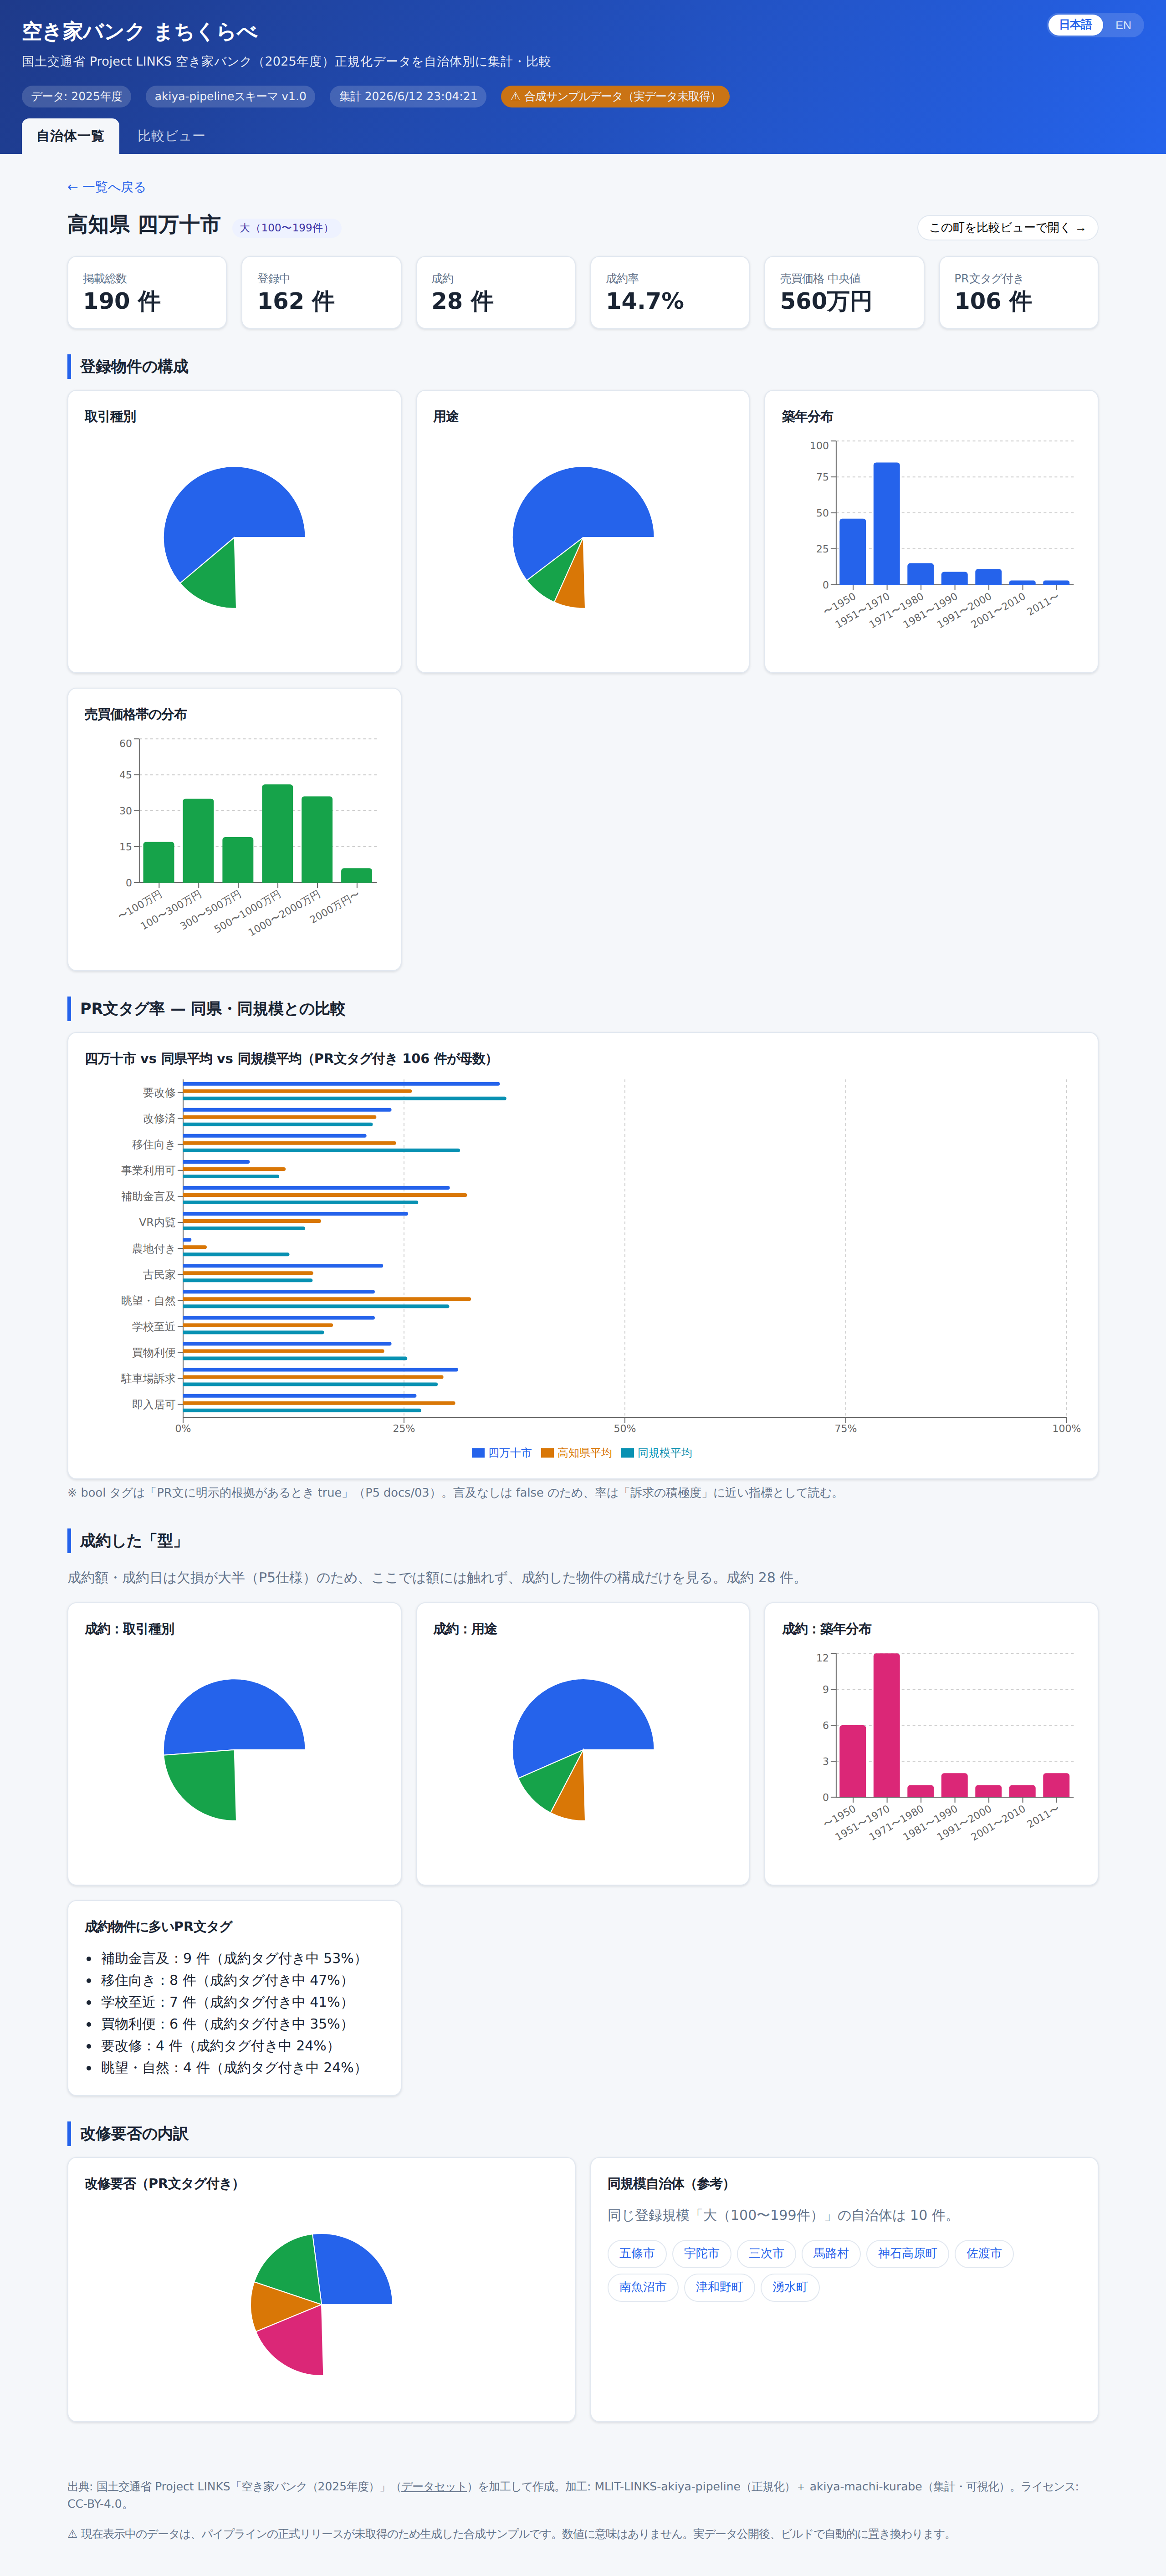
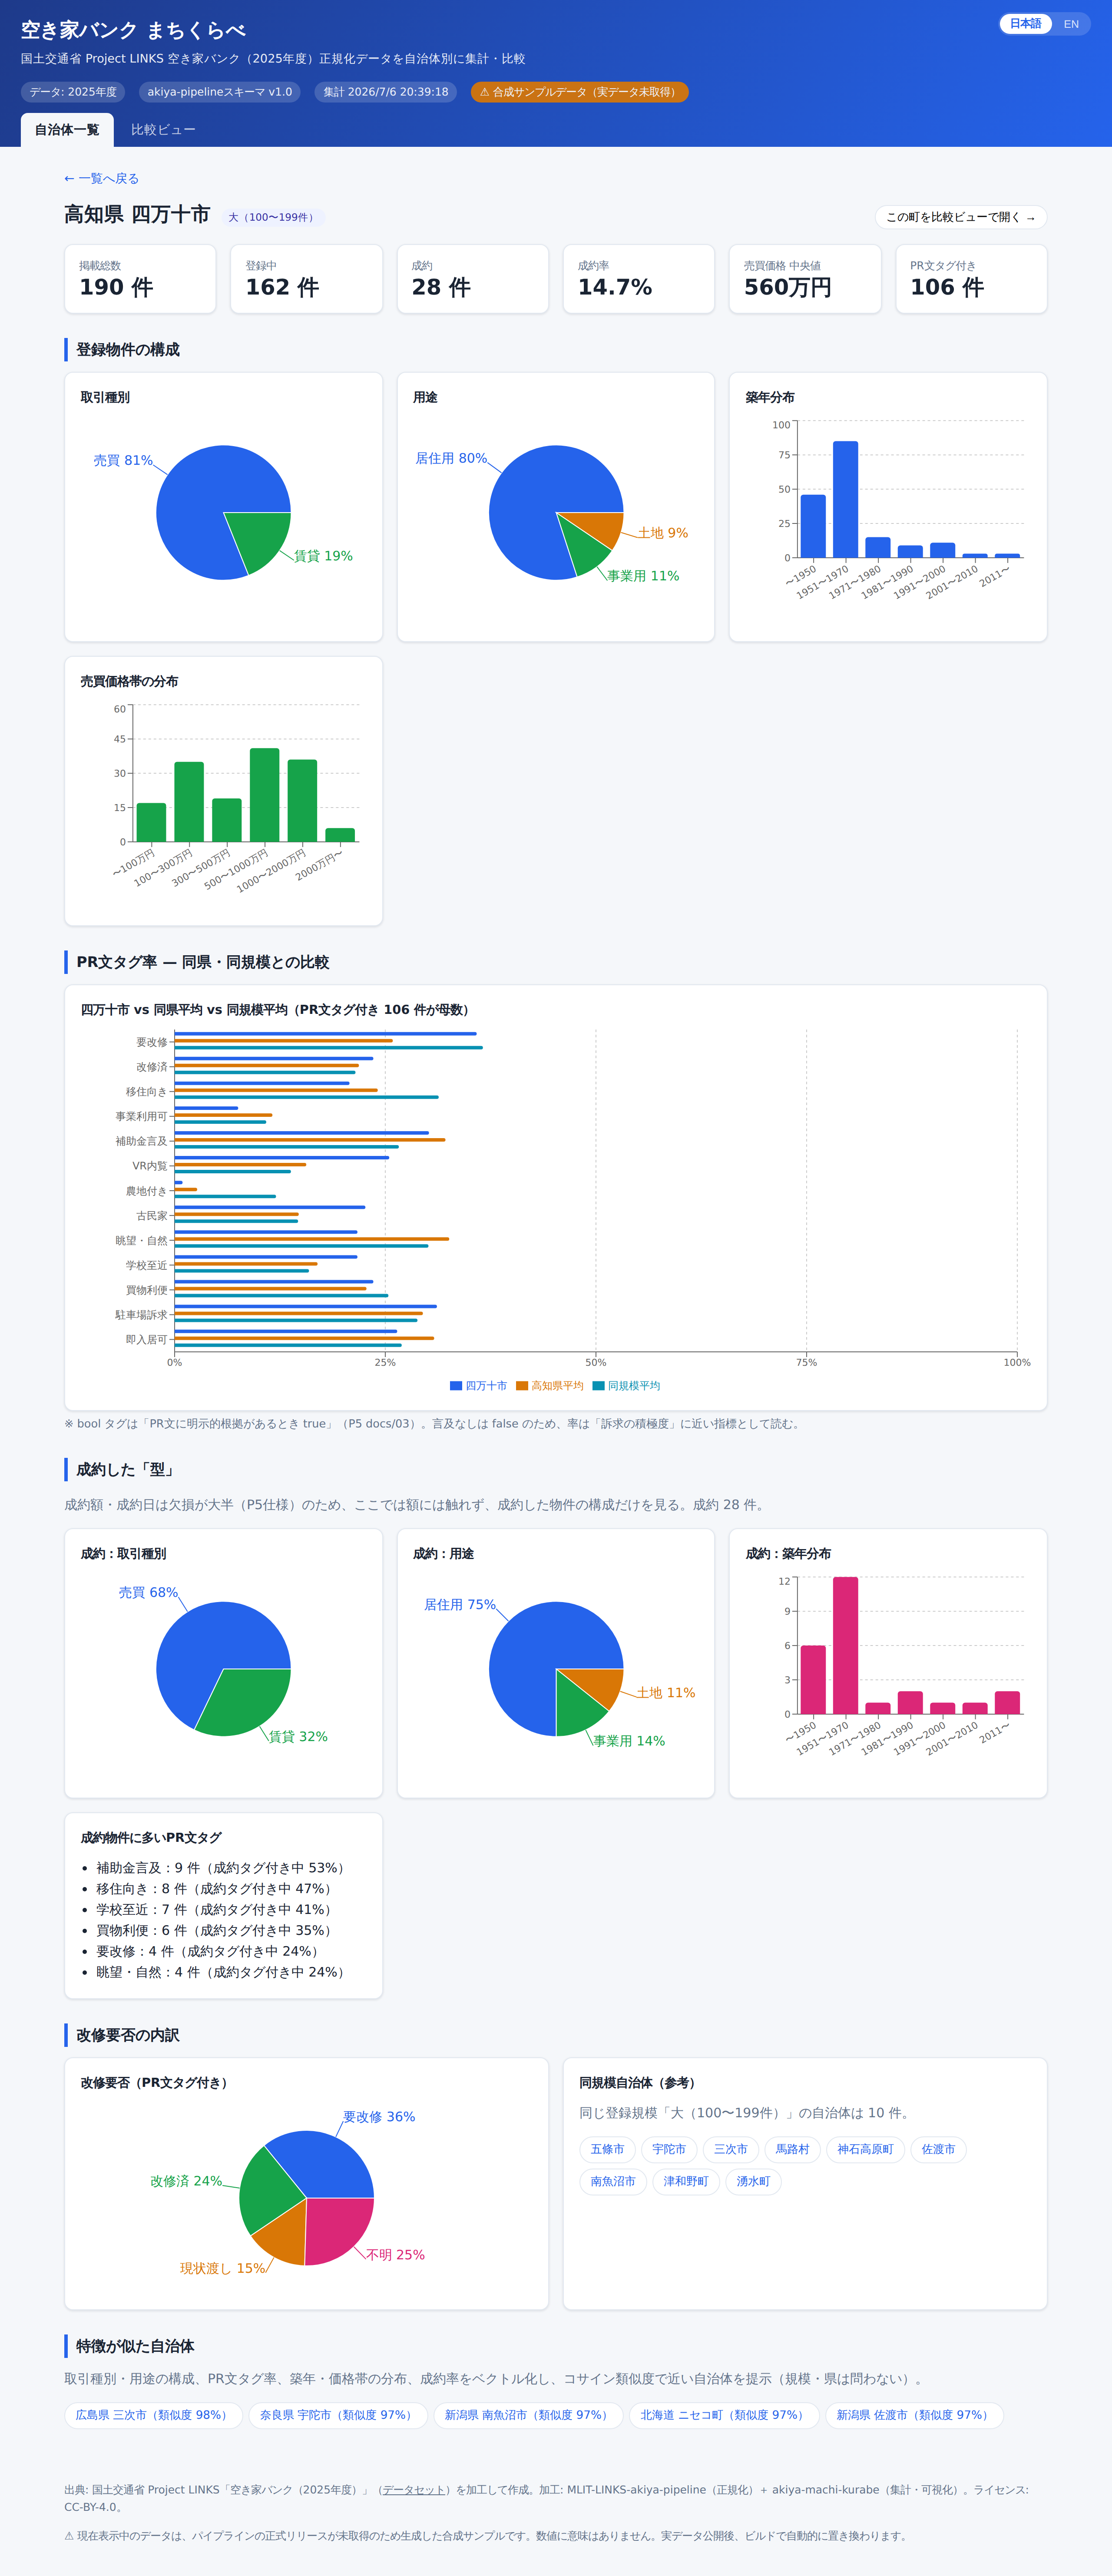
特徴が似た自治体の追加、チャートの遅延ロード、帯ラベル英訳の堅牢化
- 特徴ベクトル(取引種別/用途/タグ率/築年/価格/成約率)のコサイン類似度で
  「特徴が似た自治体」上位5件を集計時に算出し詳細に表示（AGGREGATE_VERSION 1.1）
- Recharts を遅延ロード化（PALETTE/Card を分離、charts.lazy + Suspense）。初期JSを約540kB→約29kBに
- 帯ラベルの英訳を buckets の定義から位置対応で導出し、数不一致を実行時検知
- docs/ALGORITHM.md 更新、集計テスト追加、詳細スクショ更新

diff --git a/src/i18n/i18n.tsx b/src/i18n/i18n.tsx
@@ -5,6 +5,7 @@
 import { createContext, useCallback, useContext, useEffect, useMemo, useState, type ReactNode } from "react";
 import type { ScaleBand, TagRates } from "../types/aggregates.ts";
 import type { DealType, RenovationNeeded, UseType } from "../types/p5.ts";
+import { CONSTRUCTION_BAND_LABELS, PRICE_BAND_LABELS } from "../lib/buckets.ts";
 
 export type Lang = "ja" | "en";
 
@@ -106,6 +107,12 @@ const STRINGS: Record<string, Entry> = {
   "mu.chart.reno": { ja: "改修要否（PR文タグ付き）", en: "Renovation need (PR-tagged)" },
   "mu.card.peers": { ja: "同規模自治体（参考）", en: "Same-scale municipalities (ref)" },
   "mu.peers.note": { ja: "同じ登録規模「{scale}」の自治体は {n} 件。", en: "{n} municipalities at the same listing scale “{scale}”." },
+  "mu.sec.similar": { ja: "特徴が似た自治体", en: "Municipalities with similar characteristics" },
+  "mu.similar.note": {
+    ja: "取引種別・用途の構成、PR文タグ率、築年・価格帯の分布、成約率をベクトル化し、コサイン類似度で近い自治体を提示（規模・県は問わない）。",
+    en: "Nearest municipalities by cosine similarity over deal/use mix, PR-tag rates, construction/price distributions, and closed rate (regardless of scale or prefecture).",
+  },
+  "mu.similar.item": { ja: "{name}（類似度 {score}）", en: "{name} (similarity {score})" },
   "error.detail": { ja: "詳細を読み込めません", en: "Failed to load detail" },
 
   "cmp.intro": {
@@ -182,21 +189,25 @@ const SCALE: Record<ScaleBand, Entry> = {
   xs: { ja: "極小（〜9件）", en: "XS (≤9)" },
 };
 
-// ヒストグラムの帯ラベル（集計成果物では日本語固定なので JA ラベル→EN で対応）
+// ヒストグラムの帯ラベル英訳。JA ラベルは buckets.ts が単一の定義元なので、
+// そこから取り込んだ配列と EN 配列を「定義順（位置）」で対応づける。
+// これにより buckets.ts 側の JA 文言を変えても英訳が静かにズレない。
+// バンド数が変わったら下の長さチェックが実行時に検知する。
+const CONSTRUCTION_BAND_EN = ["–1950", "1951–1970", "1971–1980", "1981–1990", "1991–2000", "2001–2010", "2011–"];
+const PRICE_BAND_EN = ["<¥1M", "¥1–3M", "¥3–5M", "¥5–10M", "¥10–20M", "¥20M+"];
+
+function zipBandLabels(jaLabels: readonly string[], enLabels: readonly string[], kind: string): Record<string, string> {
+  if (jaLabels.length !== enLabels.length) {
+    throw new Error(
+      `i18n: ${kind} バンドの日本語(${jaLabels.length})と英語(${enLabels.length})の数が一致しません。i18n.tsx の EN 配列を buckets.ts の定義に合わせてください。`,
+    );
+  }
+  return Object.fromEntries(jaLabels.map((ja, i) => [ja, enLabels[i]]));
+}
+
 const BAND_EN: Record<string, string> = {
-  "〜1950": "–1950",
-  "1951〜1970": "1951–1970",
-  "1971〜1980": "1971–1980",
-  "1981〜1990": "1981–1990",
-  "1991〜2000": "1991–2000",
-  "2001〜2010": "2001–2010",
-  "2011〜": "2011–",
-  "〜100万円": "<¥1M",
-  "100〜300万円": "¥1–3M",
-  "300〜500万円": "¥3–5M",
-  "500〜1000万円": "¥5–10M",
-  "1000〜2000万円": "¥10–20M",
-  "2000万円〜": "¥20M+",
+  ...zipBandLabels(CONSTRUCTION_BAND_LABELS, CONSTRUCTION_BAND_EN, "築年"),
+  ...zipBandLabels(PRICE_BAND_LABELS, PRICE_BAND_EN, "価格"),
 };
 
 function interpolate(s: string, vars?: Record<string, string | number>): string {

diff --git a/src/pages/MunicipalityPage.tsx b/src/pages/MunicipalityPage.tsx
@@ -1,11 +1,13 @@
-import { useEffect, useMemo, useState } from "react";
+import { Suspense, useEffect, useMemo, useState } from "react";
 import { useStore } from "../data/store.tsx";
 import { loadMunicipalityDetail } from "../data/load.ts";
 import type { MunicipalityDetail, TagRates } from "../types/aggregates.ts";
 import type { RenovationNeeded } from "../types/p5.ts";
 import { navigate } from "../lib/router.ts";
 import { num, pct, toPieData } from "../lib/format.ts";
-import { Card, CompositionPie, HistogramChart, PALETTE, TagRateBars } from "../components/charts.tsx";
+import { Card } from "../components/Card.tsx";
+import { PALETTE } from "../lib/palette.ts";
+import { CompositionPie, HistogramChart, TagRateBars } from "../components/charts.lazy.tsx";
 import { Kpi } from "../components/Kpi.tsx";
 import { useI18n } from "../i18n/i18n.tsx";
 
@@ -99,6 +101,7 @@ export function MunicipalityPage({ id }: { id: string }) {
         <Kpi label={t("mu.kpi.tagged")} value={i18n.count(detail.tagged)} />
       </div>
 
+      <Suspense fallback={<div className="center-msg">{t("common.loading")}</div>}>
       <h2 className="section">{t("mu.sec.composition")}</h2>
       <div className="grid grid-2">
         <CompositionPie title={t("mu.chart.deal")} data={toPieData(detail.deal_type, i18n.deal)} />
@@ -180,6 +183,23 @@ export function MunicipalityPage({ id }: { id: string }) {
           </div>
         </Card>
       </div>
+      </Suspense>
+
+      {detail.similar.length > 0 && (
+        <>
+          <h2 className="section">{t("mu.sec.similar")}</h2>
+          <p className="muted" style={{ marginTop: 0 }}>
+            {t("mu.similar.note")}
+          </p>
+          <div className="chip-row">
+            {detail.similar.map((s) => (
+              <a key={s.id} className="chip" href={`#/m/${s.id}`}>
+                {t("mu.similar.item", { name: `${s.prefecture} ${s.city}`, score: pct(s.score) })}
+              </a>
+            ))}
+          </div>
+        </>
+      )}
     </div>
   );
 }

diff --git a/scripts/__tests__/aggregate.test.ts b/scripts/__tests__/aggregate.test.ts
@@ -95,6 +95,27 @@ test("売買価格の中央値とヒストグラムを出す", () => {
   assert.equal(total, 3); // rent は価格ヒストに含めない
 });
 
+test("類似自治体：自分を除き降順、決定的、特徴が近い順", () => {
+  const records: AkiyaRecord[] = [
+    rec({ id: "a1", location: { prefecture: "P", city: "A", point: null }, deal_type: "sale", use_type: "residential" }),
+    rec({ id: "a2", location: { prefecture: "P", city: "A", point: null }, deal_type: "sale", use_type: "residential" }),
+    rec({ id: "b1", location: { prefecture: "P", city: "B", point: null }, deal_type: "sale", use_type: "residential" }),
+    rec({ id: "c1", location: { prefecture: "Q", city: "C", point: null }, deal_type: "rent", use_type: "commercial" }),
+  ];
+  const a = aggregate(records, META);
+  const A = a.details.find((d) => d.city === "A")!;
+  assert.ok(A.similar.length >= 1 && A.similar.length <= 5);
+  assert.ok(!A.similar.some((s) => s.id === A.id)); // 自分を含まない
+  for (let i = 1; i < A.similar.length; i++) {
+    assert.ok(A.similar[i - 1].score >= A.similar[i].score); // 降順
+  }
+  // 居住・売買の A は、同じ構成の B の方が 事業・賃貸の C より似る
+  assert.equal(A.similar[0].city, "B");
+  // 決定的（同じ入力なら同じ出力）
+  const B = aggregate(records, META).details.find((d) => d.city === "A")!;
+  assert.deepEqual(A.similar, B.similar);
+});
+
 test("詳細 ID は決定的で、summary と detail で一致する", () => {
   const records: AkiyaRecord[] = [rec({ id: "1" })];
   const a = aggregate(records, META);

diff --git a/src/components/charts.tsx b/src/components/charts.tsx
@@ -16,25 +16,8 @@ import {
 import type { HistogramBin } from "../types/aggregates.ts";
 import { pct } from "../lib/format.ts";
 import { useI18n } from "../i18n/i18n.tsx";
-
-export const PALETTE = [
-  "#2563eb",
-  "#16a34a",
-  "#d97706",
-  "#db2777",
-  "#0891b2",
-  "#7c3aed",
-  "#dc2626",
-];
-
-export function Card({ title, children }: { title?: string; children: React.ReactNode }) {
-  return (
-    <div className="card">
-      {title && <p className="chart-title">{title}</p>}
-      {children}
-    </div>
-  );
-}
+import { PALETTE } from "../lib/palette.ts";
+import { Card } from "./Card.tsx";
 
 /** 構成比の円グラフ。 */
 export function CompositionPie({

diff --git a/src/components/charts.lazy.tsx b/src/components/charts.lazy.tsx
@@ -1,0 +1,14 @@
+// Recharts を使うチャート群を遅延ロードするラッパ。
+// これらを import しても Recharts は初期バンドルに含まれず、
+// 実際に描画されるときに別チャンクとして読み込まれる（<Suspense> で囲んで使う）。
+import { lazy } from "react";
+
+export const CompositionPie = lazy(() =>
+  import("./charts.tsx").then((m) => ({ default: m.CompositionPie })),
+);
+export const HistogramChart = lazy(() =>
+  import("./charts.tsx").then((m) => ({ default: m.HistogramChart })),
+);
+export const TagRateBars = lazy(() =>
+  import("./charts.tsx").then((m) => ({ default: m.TagRateBars })),
+);

diff --git a/src/types/aggregates.ts b/src/types/aggregates.ts
@@ -4,7 +4,7 @@
 import type { RenovationNeeded } from "./p5.ts";
 
 /** 集計版（このアプリの集計ロジックの版）。出力構造を変えたら上げる。 */
-export const AGGREGATE_VERSION = "1.0";
+export const AGGREGATE_VERSION = "1.1";
 
 /** 登録規模バンド（人口データが無いため登録総数を規模の代理指標に使う）。 */
 export type ScaleBand = "xs" | "s" | "m" | "l" | "xl";
@@ -68,12 +68,23 @@ export interface MunicipalitySummary {
   scale_band: ScaleBand;
 }
 
+/** 特徴ベクトルのコサイン類似度で近い自治体（規模・県によらない）。 */
+export interface SimilarMunicipality {
+  id: string;
+  prefecture: string;
+  city: string;
+  /** 類似度 0〜1（1 に近いほど特徴が似る）。 */
+  score: number;
+}
+
 /** 詳細ビュー用。municipalities/<id>.json に1件ずつ入る。 */
 export interface MunicipalityDetail extends MunicipalitySummary {
   construction_year_hist: HistogramBin[];
   sale_price_hist: HistogramBin[];
   renovation_breakdown: Record<RenovationNeeded, number>;
   closed_profile: ClosedProfile;
+  /** 特徴が似た自治体（上位、降順）。 */
+  similar: SimilarMunicipality[];
 }
 
 /** 都道府県ロールアップ（比較の基準値・同県平均）。 */

diff --git a/src/components/Card.tsx b/src/components/Card.tsx
@@ -1,0 +1,11 @@
+import type { ReactNode } from "react";
+
+/** チャートや任意内容を囲む共通カード。Recharts に依存しない軽量コンポーネント。 */
+export function Card({ title, children }: { title?: string; children: ReactNode }) {
+  return (
+    <div className="card">
+      {title && <p className="chart-title">{title}</p>}
+      {children}
+    </div>
+  );
+}

diff --git a/src/lib/palette.ts b/src/lib/palette.ts
@@ -1,0 +1,11 @@
+// チャート系の配色。Recharts を読み込まずに参照できるよう独立させている
+// （ページ側はここから import することで初期バンドルに Recharts を含めない）。
+export const PALETTE = [
+  "#2563eb",
+  "#16a34a",
+  "#d97706",
+  "#db2777",
+  "#0891b2",
+  "#7c3aed",
+  "#dc2626",
+];

diff --git a/src/pages/ComparePage.tsx b/src/pages/ComparePage.tsx
@@ -1,9 +1,10 @@
-import { useMemo, useState } from "react";
+import { Suspense, useMemo, useState } from "react";
 import { useStore } from "../data/store.tsx";
 import type { MunicipalitySummary } from "../types/aggregates.ts";
 import { navigate } from "../lib/router.ts";
 import { num, pct } from "../lib/format.ts";
-import { PALETTE, TagRateBars } from "../components/charts.tsx";
+import { PALETTE } from "../lib/palette.ts";
+import { TagRateBars } from "../components/charts.lazy.tsx";
 import { useI18n } from "../i18n/i18n.tsx";
 
 const MAX_COMPARE = 6;
@@ -149,7 +150,9 @@ export function ComparePage({ ids }: { ids: string[] }) {
           </div>
 
           <h2 className="section">{t("cmp.sec.tagrates")}</h2>
-          <TagRateBars title="" data={tagData} series={tagSeries} height={460} />
+          <Suspense fallback={<div className="center-msg">{t("common.loading")}</div>}>
+            <TagRateBars title="" data={tagData} series={tagSeries} height={460} />
+          </Suspense>
           <p className="note">{t("cmp.note")}</p>
         </>
       )}

diff --git a/vite.config.ts b/vite.config.ts
@@ -11,6 +11,9 @@ export default defineConfig({
   build: {
     outDir: "dist",
     sourcemap: false,
+    // Recharts は遅延ロード（別チャンク）なので初期ロードには載らない。
+    // 意図的に大きいチャンクなので警告閾値を上げてノイズを抑える。
+    chunkSizeWarningLimit: 600,
     rollupOptions: {
       output: {
         manualChunks: {

diff --git a/docs/ALGORITHM.md b/docs/ALGORITHM.md
@@ -58,7 +58,9 @@
 
 ## 6.「似たような自治体」の判定
 
-現状は学習や多変量距離ではなく、**2 つの単純な近接代理**で「似ている」を定義しています。
+「似ている」は 2 通りの方法で扱います。
+
+### 6-1. 比較の起点となる近接代理（同規模・同県）
 
 - **同規模**: `scale_band` が一致する自治体群。
   - 詳細ページの参考表示（`MunicipalityPage` の `peers.sameBand`）、比較ビューの「同規模を追加」（`addSameBand`、登録総数の降順で追加）。
@@ -66,8 +68,21 @@
 - **同規模平均**: 対象バンドの各自治体の**タグ率を単純平均**します（自治体を 1 票とする非加重平均、`averageTagRates`）。
   大きい自治体に引っ張られない「自治体平均」になります。
 
-> 現時点では「似ている」の定義は **同じ規模バンド or 同じ県** の二択です。
-> 特徴ベクトルのコサイン類似度やクラスタリングは未実装です（[発展余地](#発展余地)参照）。
+### 6-2. 特徴が似た自治体（特徴ベクトル＋コサイン類似度）
+
+詳細ページの「特徴が似た自治体」は、**規模や県によらず特徴ベクトルの近さ**で算出します（`attachSimilar` in `aggregate-core.ts`）。
+
+- 各自治体を次の特徴で 0〜1 主体のベクトルに落とします:
+  - 取引種別の構成比（sale / rent）
+  - 用途の構成比（residential / commercial / land）
+  - PR文タグ率（12 軸）
+  - 築年ヒストグラムの構成比（7 バンド）
+  - 価格帯ヒストグラムの構成比（6 バンド）
+  - 成約率
+- 全ペアで**コサイン類似度**を求め、自分を除く**上位 5 件**を提示します（同点は `id` 昇順で決定的）。
+- ビルド時に算出し、`municipalities/<id>.json` の `similar`（`[{ id, prefecture, city, score }]`）に格納します。
+
+> 現状はブロック重み付けをしない素朴なコサイン類似度です。次元標準化・重み付け・クラスタリングは今後の改善余地です（[発展余地](#発展余地)）。
 
 ## 7. 都道府県ロールアップ（同県平均の基準値）
 
@@ -85,8 +100,8 @@
 
 ## 発展余地
 
-「似た自治体」を真の類似度に引き上げるための課題は Issue で管理しています。
+今後の改善余地は Issue で管理しています。
 
-- 特徴ベクトル化＋距離/クラスタリングによる類似自治体の推薦
+- 類似度の高度化：次元の標準化・ブロック重み付け・クラスタリング（[#7](https://github.com/shinyanakashima/MLIT-LINKS-akiya-machi-kurabe/issues/7)）
 - 人口の付与による規模バンドの人口ベース化（[#2](https://github.com/shinyanakashima/MLIT-LINKS-akiya-machi-kurabe/issues/2)）
 - ジオコーディングによる距離ベースの「近隣」（[#3](https://github.com/shinyanakashima/MLIT-LINKS-akiya-machi-kurabe/issues/3)）